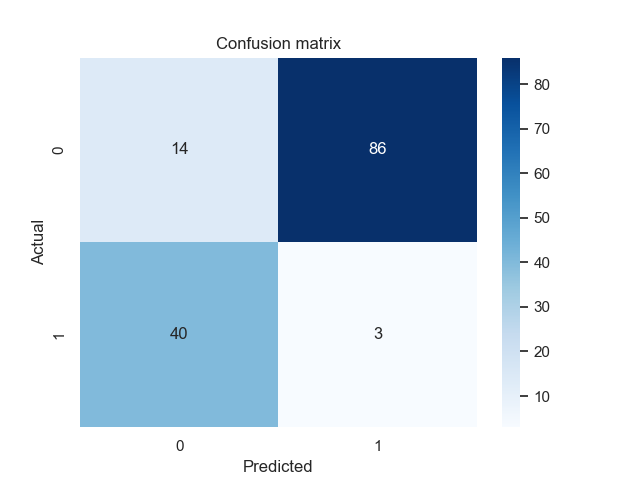
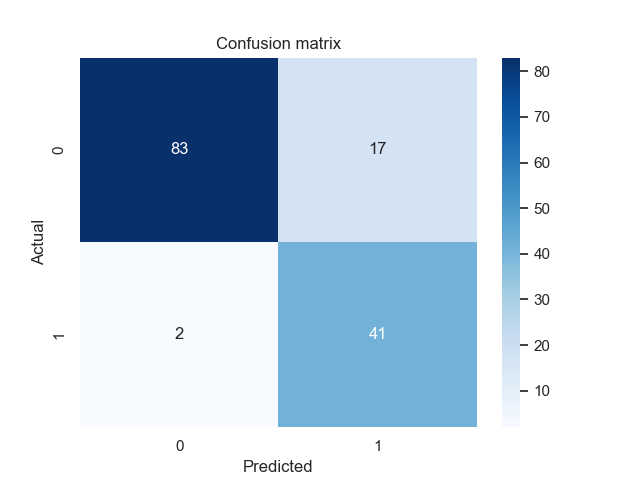
seuil dans le bon sens

diff --git a/exercice.py b/exercice.py
@@ -56,7 +56,7 @@ ax.set_ylabel('RSSI max')
 ax.figure.savefig('RSSI_max.png')
 
     # Separate the data into two groups (moving and stationary) by prediction on RSSI_max = -68
-RSSImax['predicted'] = RSSImax['RSSI_max'].apply(lambda x: 'moving' if x < -68 else 'stationary')
+RSSImax['predicted'] = RSSImax['RSSI_max'].apply(lambda x: 'moving' if x > -68 else 'stationary')
 
     # Confusion matrix 
 from sklearn.metrics import confusion_matrix
